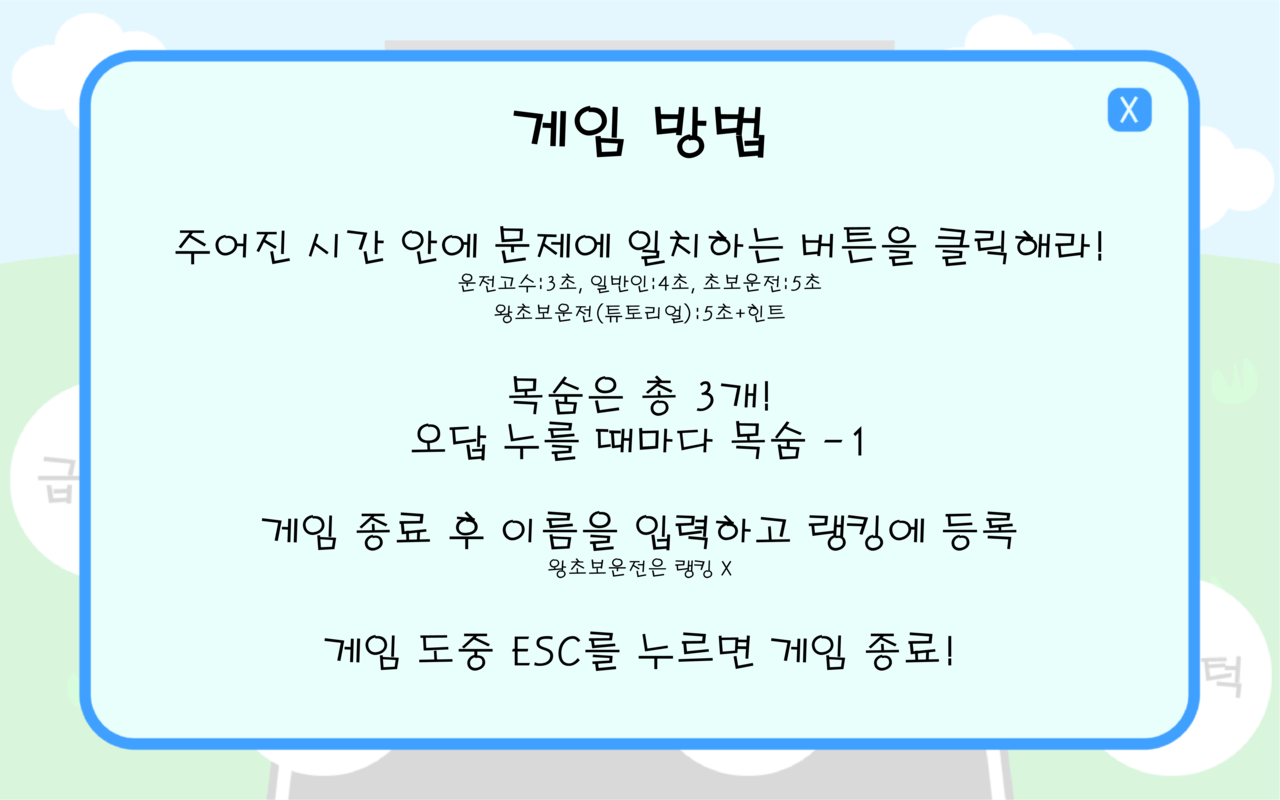
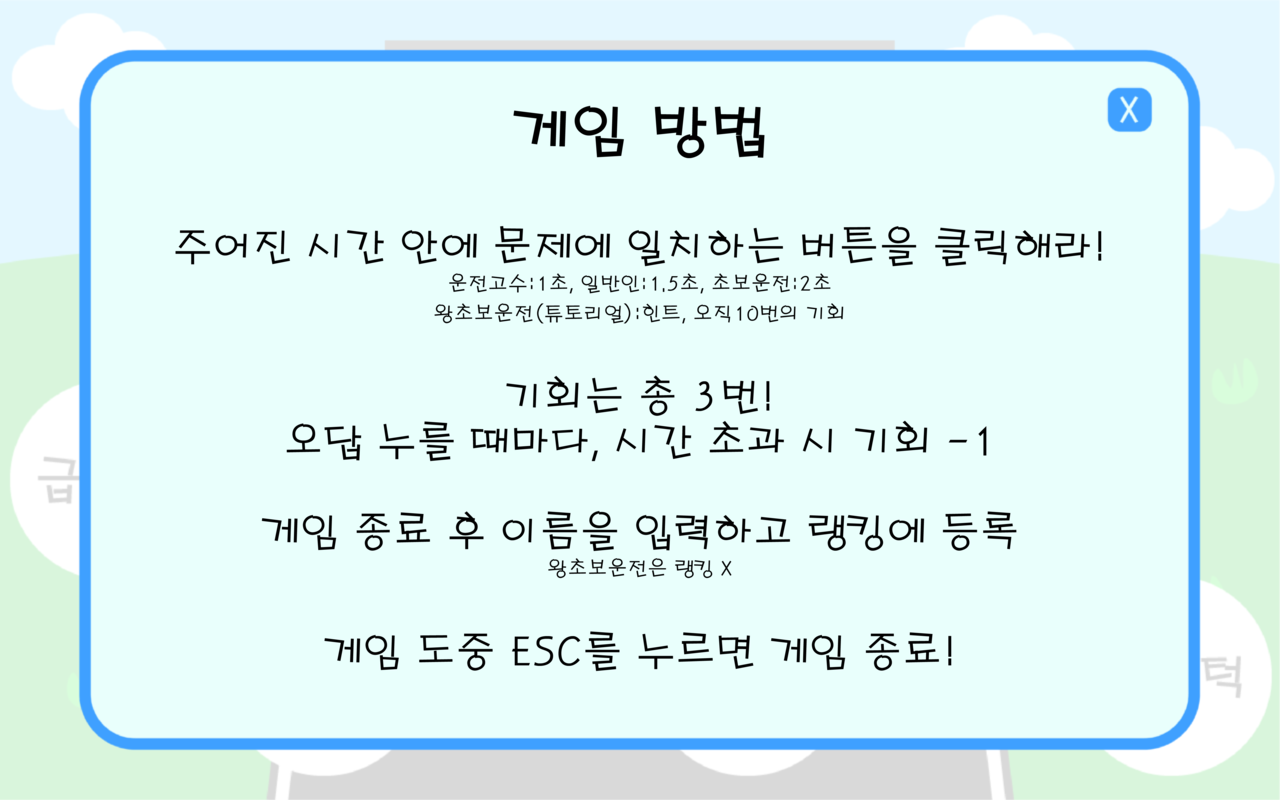
201201 게임방법 수정

Changed region(s): [[0.2188, 0.4688, 0.7812, 0.5938], [0.3438, 0.3438, 0.6562, 0.4062]]

diff --git a/buleungbuleung_game.py b/buleungbuleung_game.py
@@ -203,6 +203,7 @@ class BuleungBuleung(QWidget):
 
     # 게임 난이도1 페이지
     def game1_buleung_buleunng(self):
+        self.play_sounds[12].set_volume(0.2)
         # 현재 레벨 저장
         self.level = 1
         # 게임 난이도1 페이지 사진
@@ -347,6 +348,7 @@ class BuleungBuleung(QWidget):
 
     # 게임 난이도2 페이지
     def game2_buleung_buleunng(self, life_img):
+        self.play_sounds[12].set_volume(0.2)
         # 현재 레벨 저장
         self.level = 2
         #현재 남은 목숨 저장
@@ -460,6 +462,7 @@ class BuleungBuleung(QWidget):
 
     # 게임 난이도3 페이지
     def game3_buleung_buleunng(self, life_img):
+        self.play_sounds[12].set_volume(0.2)
         # 현재 레벨 저장
         self.level = 3
         #현재 남은 목숨 저장
@@ -518,9 +521,9 @@ class BuleungBuleung(QWidget):
         random_q3 = random.randint(0, 5)
         # 현재 문제 저장
         self.now_q = random_q3
-        game_q_label3 = QLabel(self.game_q[random_q3], self.game3_background_lb)
+        game_q_label3 = QLabel("문제 안 알려듐ㅋ", self.game3_background_lb)
         game_q_label3.setGeometry(385, 219, 510, 100)
-        game_q_label3.setFont(QFont("나눔바른펜", 35))
+        game_q_label3.setFont(QFont("나눔바른펜", 30))
         game_q_label3.setAlignment(Qt.AlignCenter)
         # 문제에 해당하는 음악
         self.play_sounds[self.now_q+6].play(0)
@@ -632,9 +635,9 @@ class BuleungBuleung(QWidget):
         random_q4 = random.randint(0, 5)
         #현재 문제 저장
         self.now_q = random_q4
-        game_q_label4 = QLabel(self.game_q[random_q4], self.game4_background_lb)
+        game_q_label4 = QLabel("눈감았다뜨면1초지나감ㅋ", self.game4_background_lb)
         game_q_label4.setGeometry(385, 219, 510, 100)
-        game_q_label4.setFont(QFont("나눔바른펜", 35))
+        game_q_label4.setFont(QFont("나눔바른펜", 30))
         game_q_label4.setAlignment(Qt.AlignCenter)
         #문제에 해당하는 음악
         self.play_sounds[self.now_q+6].play(0)
@@ -707,7 +710,7 @@ class BuleungBuleung(QWidget):
                 self.game1_buleung_buleunng()
         #난이도2
         elif self.level == 2:
-            if result > 2.5:
+            if result > 2.0:
                 #정답을 누르는 데 2.5초 보다 오래 걸렸을 때, 오답 함수로 이동
                 self.game_x()
             else:
@@ -725,7 +728,7 @@ class BuleungBuleung(QWidget):
                 self.game_x()
             else:
                 #정답일 때, 정답을 누르는 데 걸린 시간과 10을 곱해 점수 저장
-                self.score += 10*(1.5-result)
+                self.score += 15*(1.5-result)
                 #정답 음악(음악 종료 후 화면 전환)
                 self.play_sounds[self.now_q].play(0)
                 time.sleep(1)
@@ -738,7 +741,7 @@ class BuleungBuleung(QWidget):
                 self.game_x()
             else:
                 #정답일 때, 정답을 누르는 데 걸린 시간과 10을 곱해 점수 저장
-                self.score += 10*(1.0-result)
+                self.score += 25*(1.0-result)
                 #정답 음악(음악 종료 후 화면 전환)
                 self.play_sounds[self.now_q].play(0)
                 time.sleep(1)
